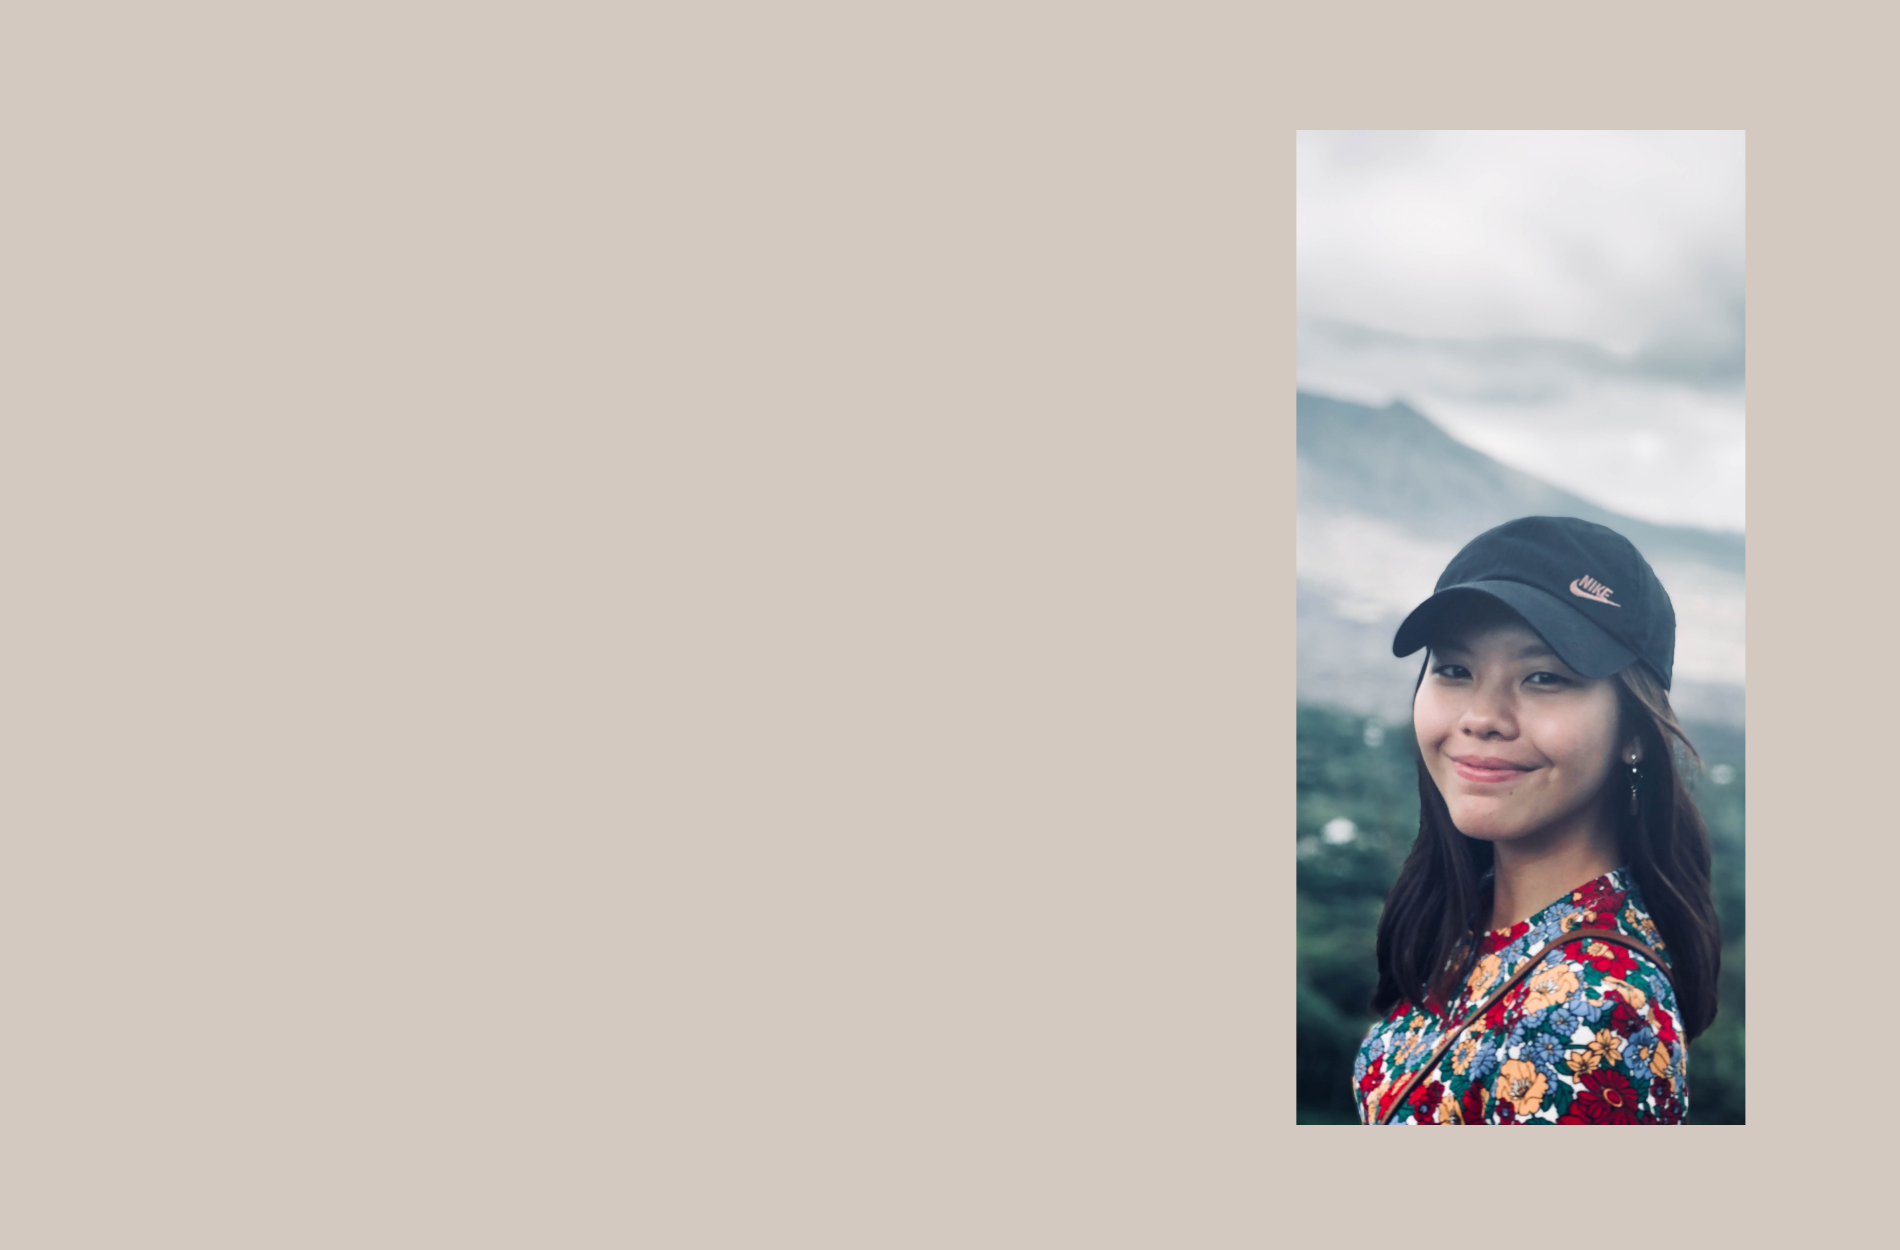
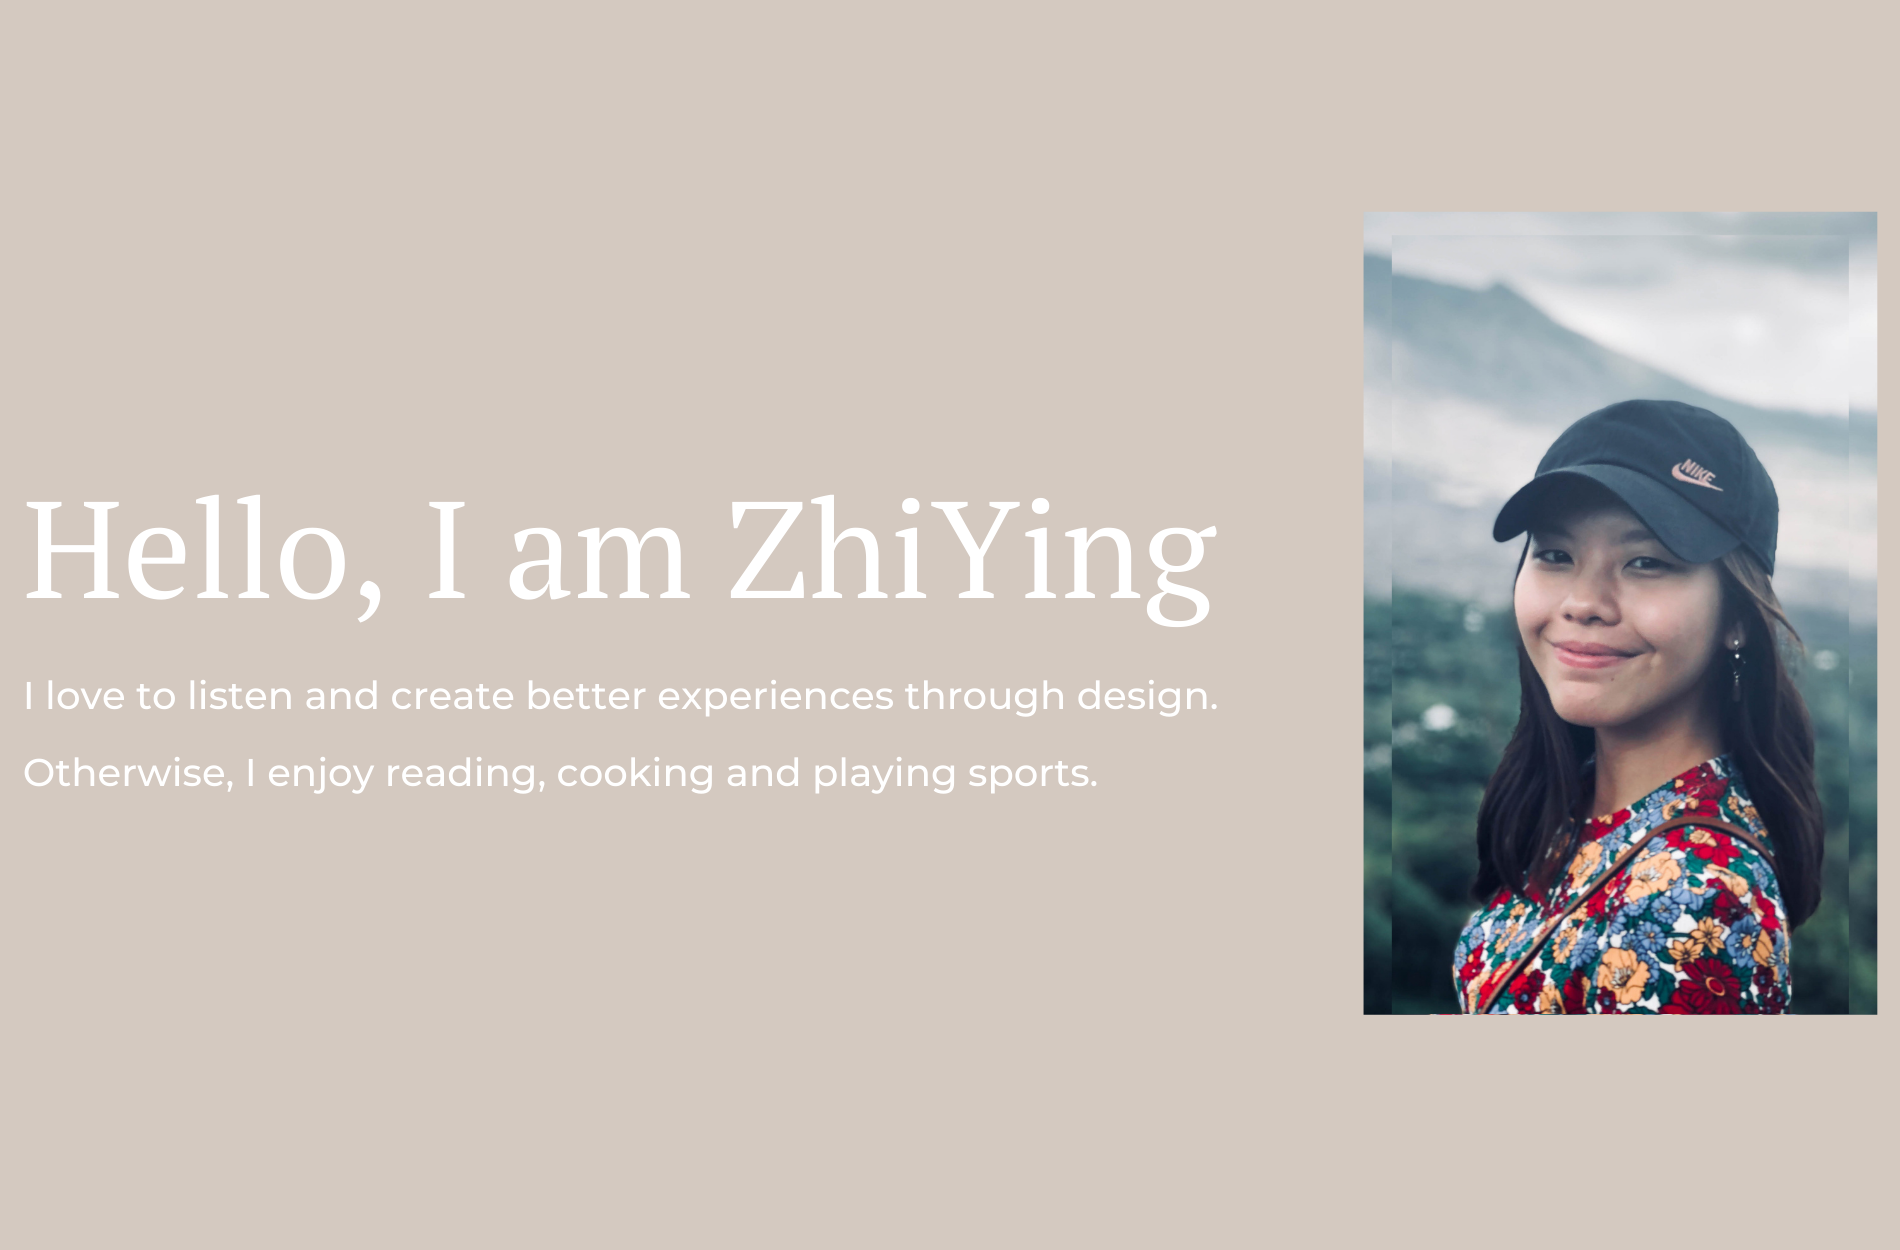
reflection and cover

diff --git a/index.html b/index.html
@@ -37,8 +37,6 @@
         <!-- Masthead-->
         <header class="masthead">
             <div class="container" id="about"> 
-                <div class="masthead-subheading">Hello, I am Zhi Ying</div>
-                <div class="masthead-heading text-lg-start">I love to listen and create better experiences through design.  </div>
                 
             </div>
         </header>
@@ -243,6 +241,12 @@
 
                                     <h1 class="text-lg-start">Validation</h1>
                                     <img class="img-fluid d-block mx-auto" src="assets/images/tikam/validation.svg" alt="..." />
+                                    
+                                    <h1 class="text-lg-start"> My reflection</h1>
+                                    <p class="text-lg-start">Trips to the AWWA Rehab and Day Care Centre for site visits and usability tests always reminded me of my grandmother who was diagnosed with stroke and had to go through rehabilitation at a Rehab Centre. I was fascinated with this opportunity to re-design a piece of rehabilitative device to create a more delightful rehabilitation experience through my design knowing how challenging rehabilitation can get from my personal experience.</p>
+                                    <p class="text-lg-start">Since a rehabilitative device is used by a patient for a prolonged period of time, it is crucial that the newly designed device provides a refreshing experience every time a patient engages with it. While it was challenging at first, I am glad my group combined the gamification techniques and therapy assessment criteria to guide us in our ideation process.</p>
+                                    <p class="text-lg-start">The usability tests were very fruitful although the preparation for the various sessions required a lot of time and effort. I really enjoyed conducting the tests and interacting with the patients. Looking at how the insights from the tests influenced our design decisions to bring the project to success, I am reminded that usability testing is part of the design process that should not be taken lightly.</p>
+                                    
                                     <p class="text-lg-start"> <i>Designed with Emily Tam & Teh Xin Lei</i></p>
 
                                     <button class="btn btn-primary btn-xl text-uppercase" data-bs-dismiss="modal" type="button">
@@ -300,6 +304,12 @@
                                     <img class="img-fluid d-block mx-auto" src="assets/images/assisi/other-features.png" alt="..." />
                                     <p class="text-lg-start">The carnival landing page introduces a daily mini game that requires users to explore the site. By spotting the nuns and friars placed on the site, users are rewarded with a lucky draw chance.</p>
                                     <p class="text-lg-start">Various curated content are also part of the virtual carnival to engage the public and create awareness with the stories of patients under palliative care. The call-to-action ‘donate’ button is placed strategically at the bottom of ‘our stories’ page.</p>
+                                    <p class="text-lg-start">Due to the tight timeline and complexity of the project, I collaborated with the user interface designer and software engineers regularly to ensure they are updated with the latest version of the user flow and wireframe while discussion with the client takes place concurrently.</p>
+                                    
+                                    <h1 class="text-lg-start"> My reflection</h1>
+                                    <p class="text-lg-start">I was very excited to be part of Assisi Fun Day 2021 as the user experience designer and contribute to Assisi Hospice beyond my identity as a volunteer. The experience was enriching as I had the opportunity to be involved in discussions with the client and understand their requirements for the different features on the site. There was a pre-event and a live-event site so I ended up designing over 100 wireframes for this project.</p>
+                                    <p class="text-lg-start">The most complex part of this project was designing for the e-commerce. There were a lot of requirements to consider in order to create a smooth and pleasant e-commerce experience for both the retailers and the consumers. For instance, I had to prioritise the information presented on the screen to ensure that retailers were able to keep track of the purchases made by the consumers easily and consumers were updated of their order status without being overwhelmed. The check out page also had to be designed meticulously to avoid confusing users as there were functions like voucher redemption, e-wallet payment and a donate option all on a single page.</p>
+                                    <p class="text-lg-start">One of the key takeaways from designing the user experience for both the pre-event and live-event sites is that the pre-event site is more than removing features that will only be launched on the live-event site. Instead, the design focuses on allowing users on the pre-event site to gain a sneak peek and anticipate for the live-event. </p>
 
                                     <p class="text-lg-start"> <i>Designed at Trinax, 6-month UI/UX Internship</i></p>
                                     

diff --git a/css/styles.css b/css/styles.css
@@ -250,7 +250,7 @@ a {
   text-decoration: underline;
 }
 a:hover {
-  color: #cca000;
+  color: #4e5445;
 }
 
 a:not([href]):not([class]), a:not([href]):not([class]):hover {
@@ -3041,13 +3041,13 @@ textarea.form-control-lg {
 
 .btn-primary {
   color: #fff;
-  background-color: #ffc800;
-  border-color: #ffc800;
+  background-color: #4e5445;
+  
 }
 .btn-primary:hover {
   color: #fff;
-  background-color: #d9aa00;
-  border-color: #cca000;
+  background-color: #44382E;
+ 
 }
 .btn-check:focus + .btn-primary, .btn-primary:focus {
   color: #fff;
@@ -3485,7 +3485,7 @@ textarea.form-control-lg {
   text-decoration: underline;
 }
 .btn-link:hover {
-  color: #cca000;
+  color: #4e5445;
 }
 .btn-link:disabled, .btn-link.disabled {
   color: #6c757d;
@@ -11418,15 +11418,18 @@ p {
 }
 header.masthead {
   padding-top: 10.5rem;
-  padding-bottom: 6rem;
+  padding-bottom: 10.5rem;
   padding-left: 22rem;
   text-align: left;
   color: #fff;
+  background-image: url("../assets/images/cover.png");
   background-color: #D4C9C0;
   background-repeat: no-repeat;
   background-attachment: scroll;
   background-position: center center;
-  background-size: cover;
+  background-size: contain;
+  
+  
 }
 header.masthead .masthead-subheading {
   font-size: 1.5rem;
@@ -11437,7 +11440,7 @@ header.masthead .masthead-subheading {
 }
 header.masthead .masthead-heading {
   font-size: 3.25rem;
-  font-weight: 700;
+  font-weight: 900;
   line-height: 3.25rem;
   margin-bottom: 2rem;
   font-family: "Montserrat", -apple-system, BlinkMacSystemFont, "Segoe UI", Roboto, "Helvetica Neue", Arial, sans-serif, "Apple Color Emoji", "Segoe UI Emoji", "Segoe UI Symbol", "Noto Color Emoji";
@@ -11459,7 +11462,7 @@ header.masthead .masthead-heading {
     font-size: 1.5rem;
     font-weight: 200;
     line-height: 4.5rem;
-    margin-bottom: 4rem;
+    margin-bottom: -2rem;
   }
 }
 #portfolio .portfolio-item {
